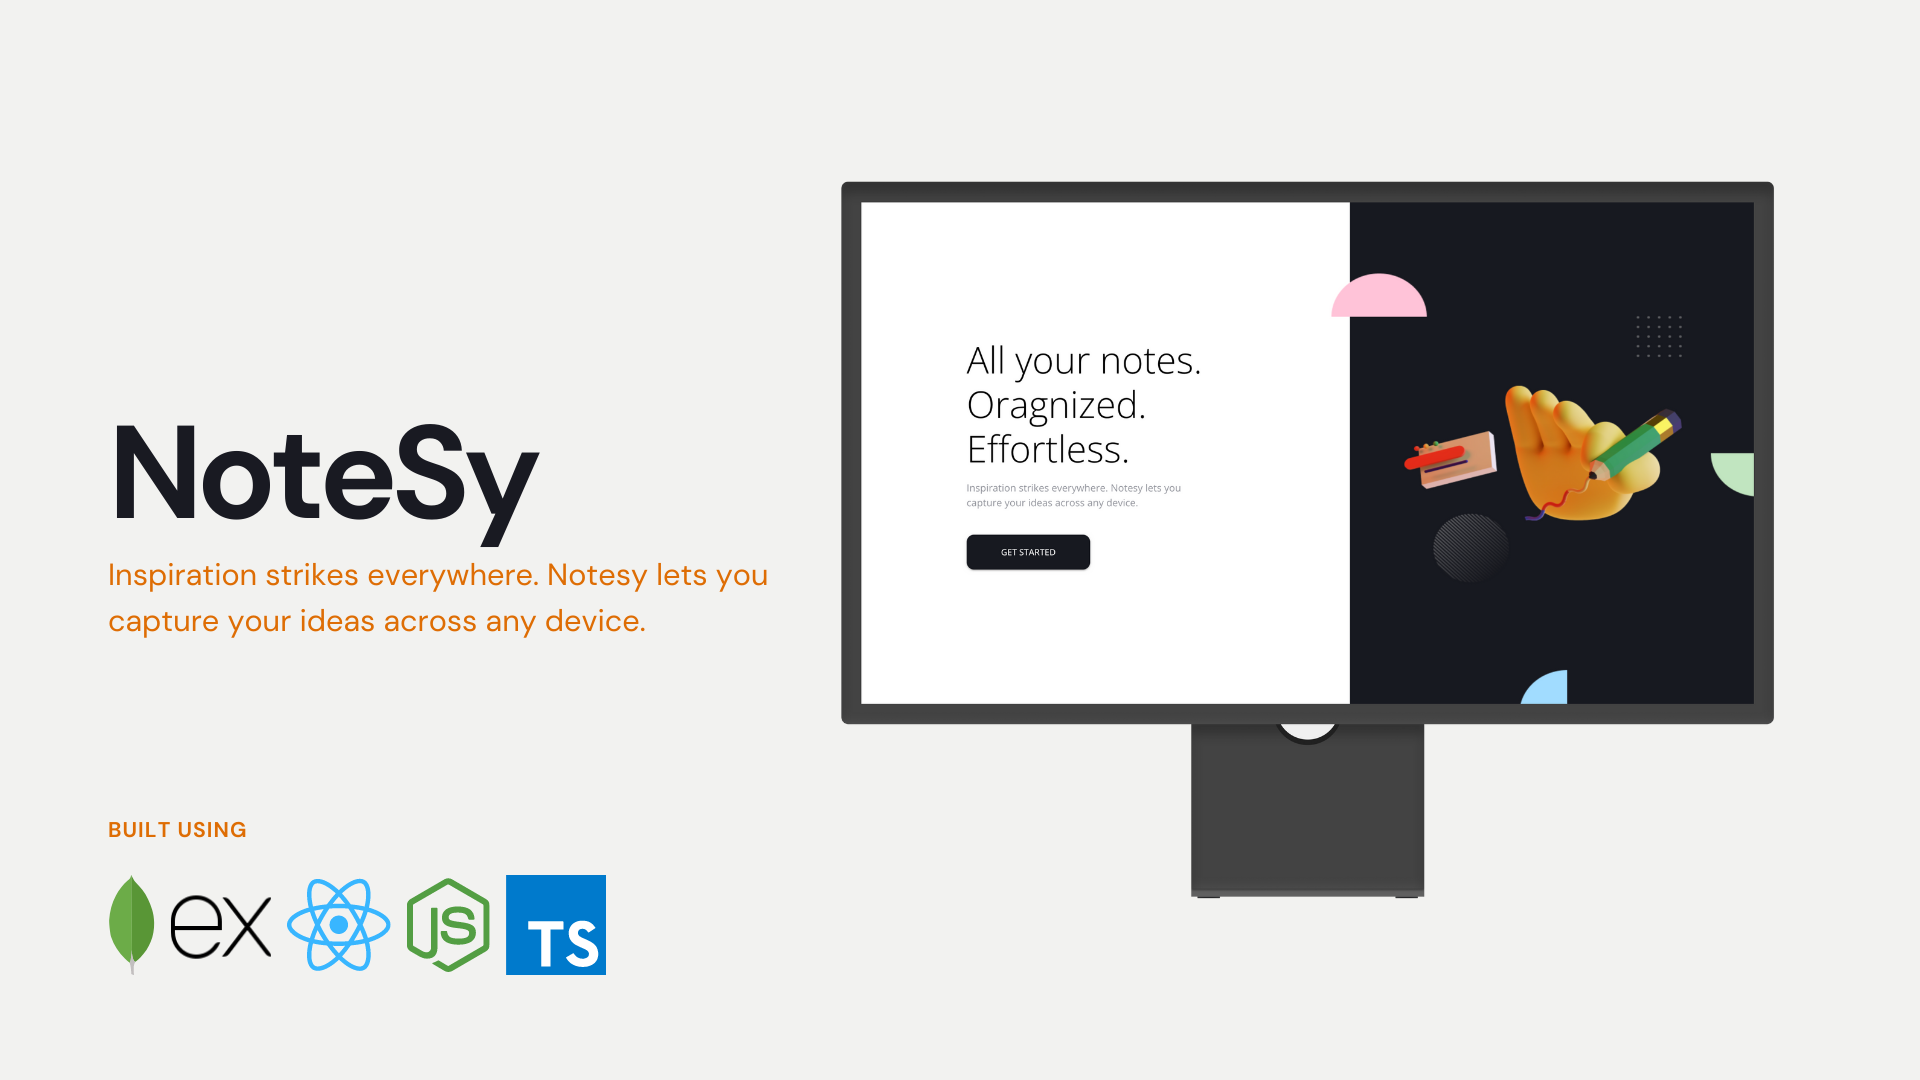
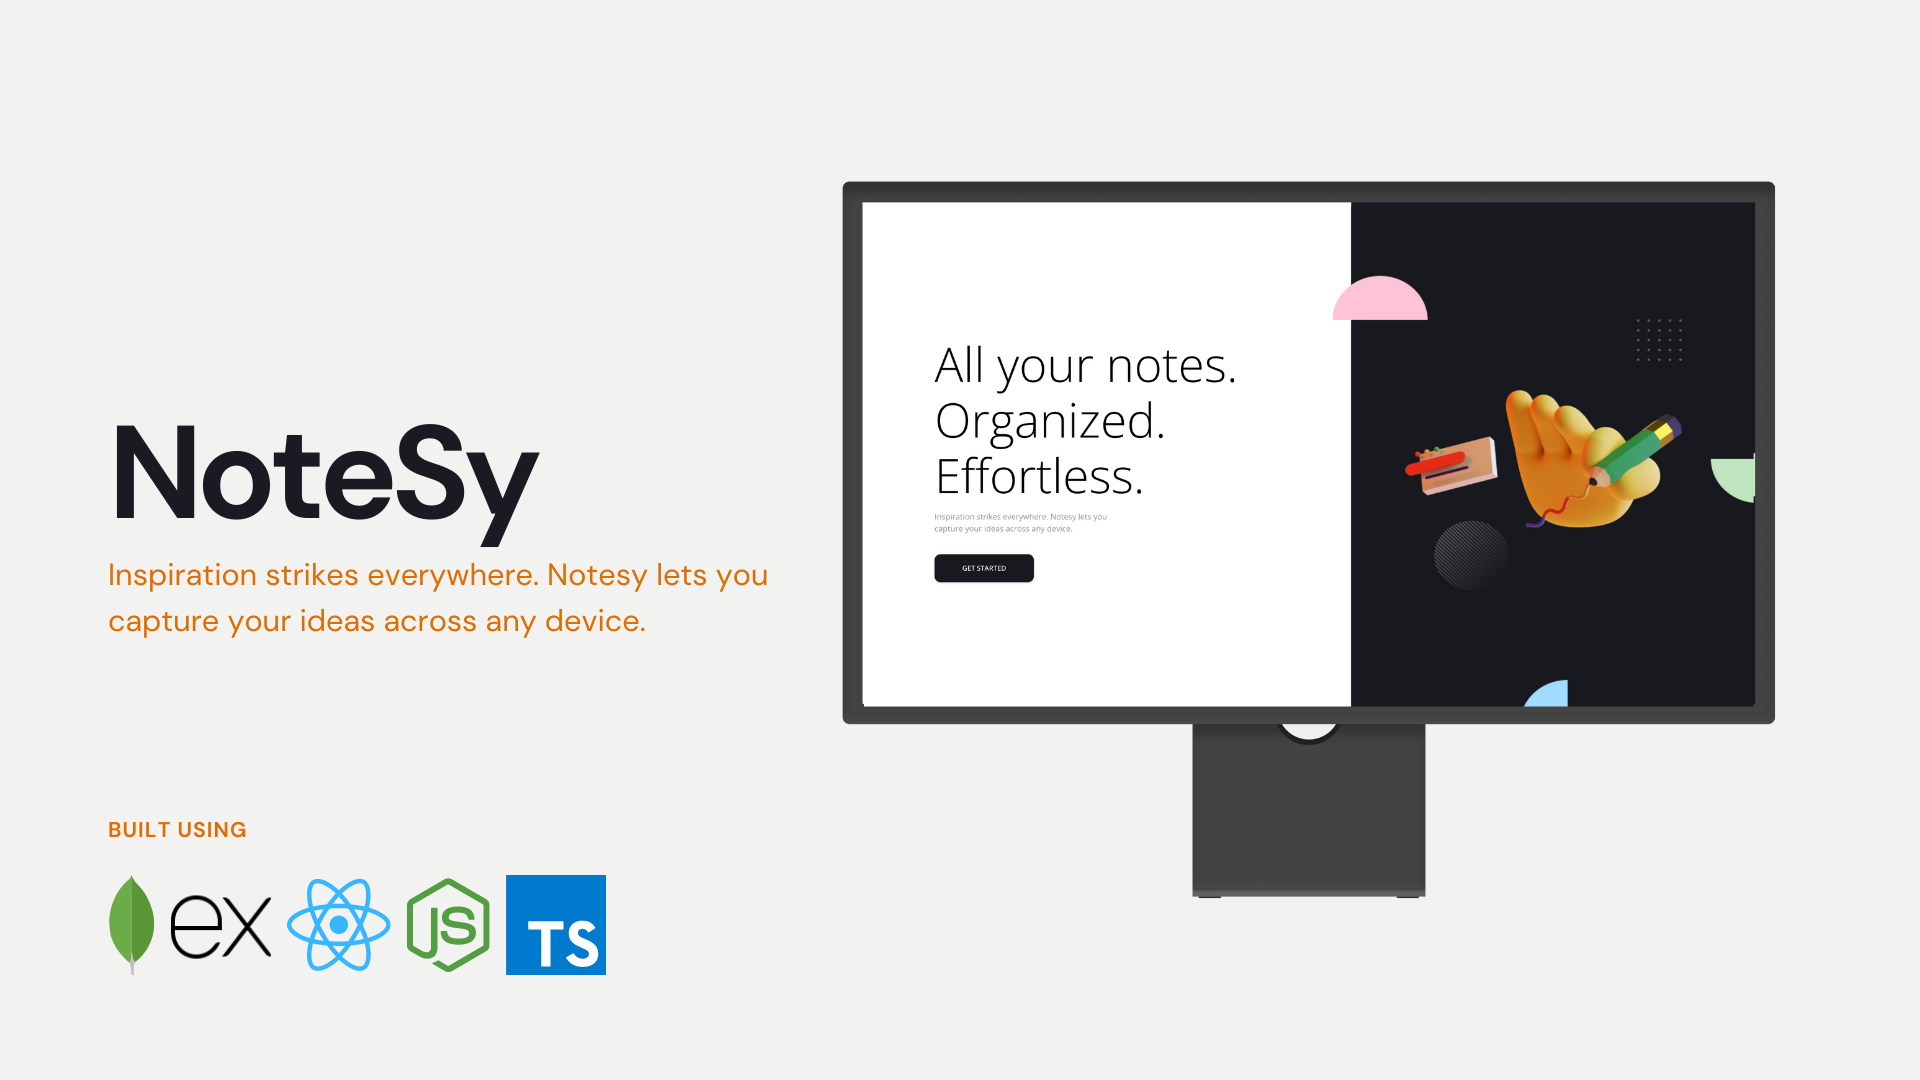
Graphics updated

diff --git a/frontend/public/index.html b/frontend/public/index.html
@@ -6,7 +6,7 @@
     <meta name="theme-color" content="#000000" />
     <meta
       name="NoteSy"
-      content="All your notes. Oragnized. Effortless. Inspiration strikes everywhere. Notesy lets you capture your ideas across any device."
+      content="All your notes. Organized. Effortless. Inspiration strikes everywhere. Notesy lets you capture your ideas across any device."
     />
 
     <meta name="viewport" content="initial-scale=1, width=device-width" />

diff --git a/frontend/src/ui/screens/home/HomeScreen.tsx b/frontend/src/ui/screens/home/HomeScreen.tsx
@@ -46,7 +46,7 @@ const HomeScreen = () => {
                         fontWeight="800"
                     >
                         All your notes. <br/>
-                        Oragnized. <br/>
+                        Organized. <br/>
                         Effortless.
                     </Typography>
 
